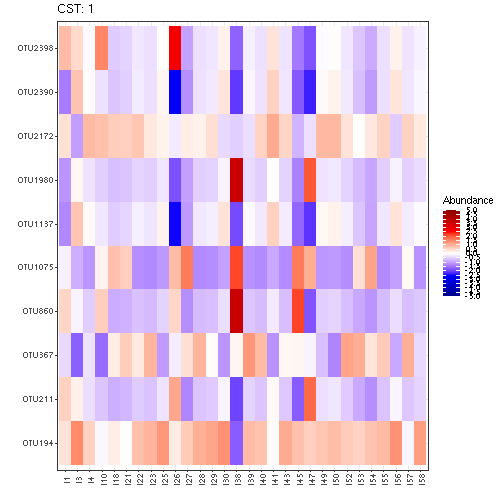
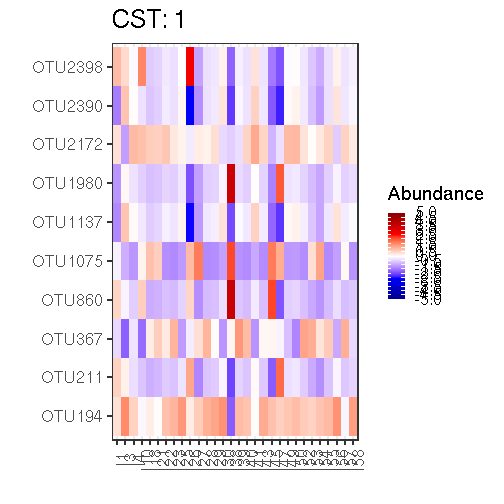
ok

diff --git a/CSTAnalysis_SkinSamples.md b/CSTAnalysis_SkinSamples.md
@@ -52,7 +52,7 @@ Coloured by DMM community type
 
 Heatmaps for the community state types.
 
-<img src="figure/clust-diverse_CLRleo-1.png" title="plot of chunk clust-diverse_CLRleo" alt="plot of chunk clust-diverse_CLRleo" width="20%" /><img src="figure/clust-diverse_CLRleo-2.png" title="plot of chunk clust-diverse_CLRleo" alt="plot of chunk clust-diverse_CLRleo" width="20%" /><img src="figure/clust-diverse_CLRleo-3.png" title="plot of chunk clust-diverse_CLRleo" alt="plot of chunk clust-diverse_CLRleo" width="20%" />
+<img src="figure/clust-diverse_CLRleo-1.png" title="plot of chunk clust-diverse_CLRleo" alt="plot of chunk clust-diverse_CLRleo" width="33%" /><img src="figure/clust-diverse_CLRleo-2.png" title="plot of chunk clust-diverse_CLRleo" alt="plot of chunk clust-diverse_CLRleo" width="33%" /><img src="figure/clust-diverse_CLRleo-3.png" title="plot of chunk clust-diverse_CLRleo" alt="plot of chunk clust-diverse_CLRleo" width="33%" />
 
 
 ### Boxplots for each genus in the three clusters
